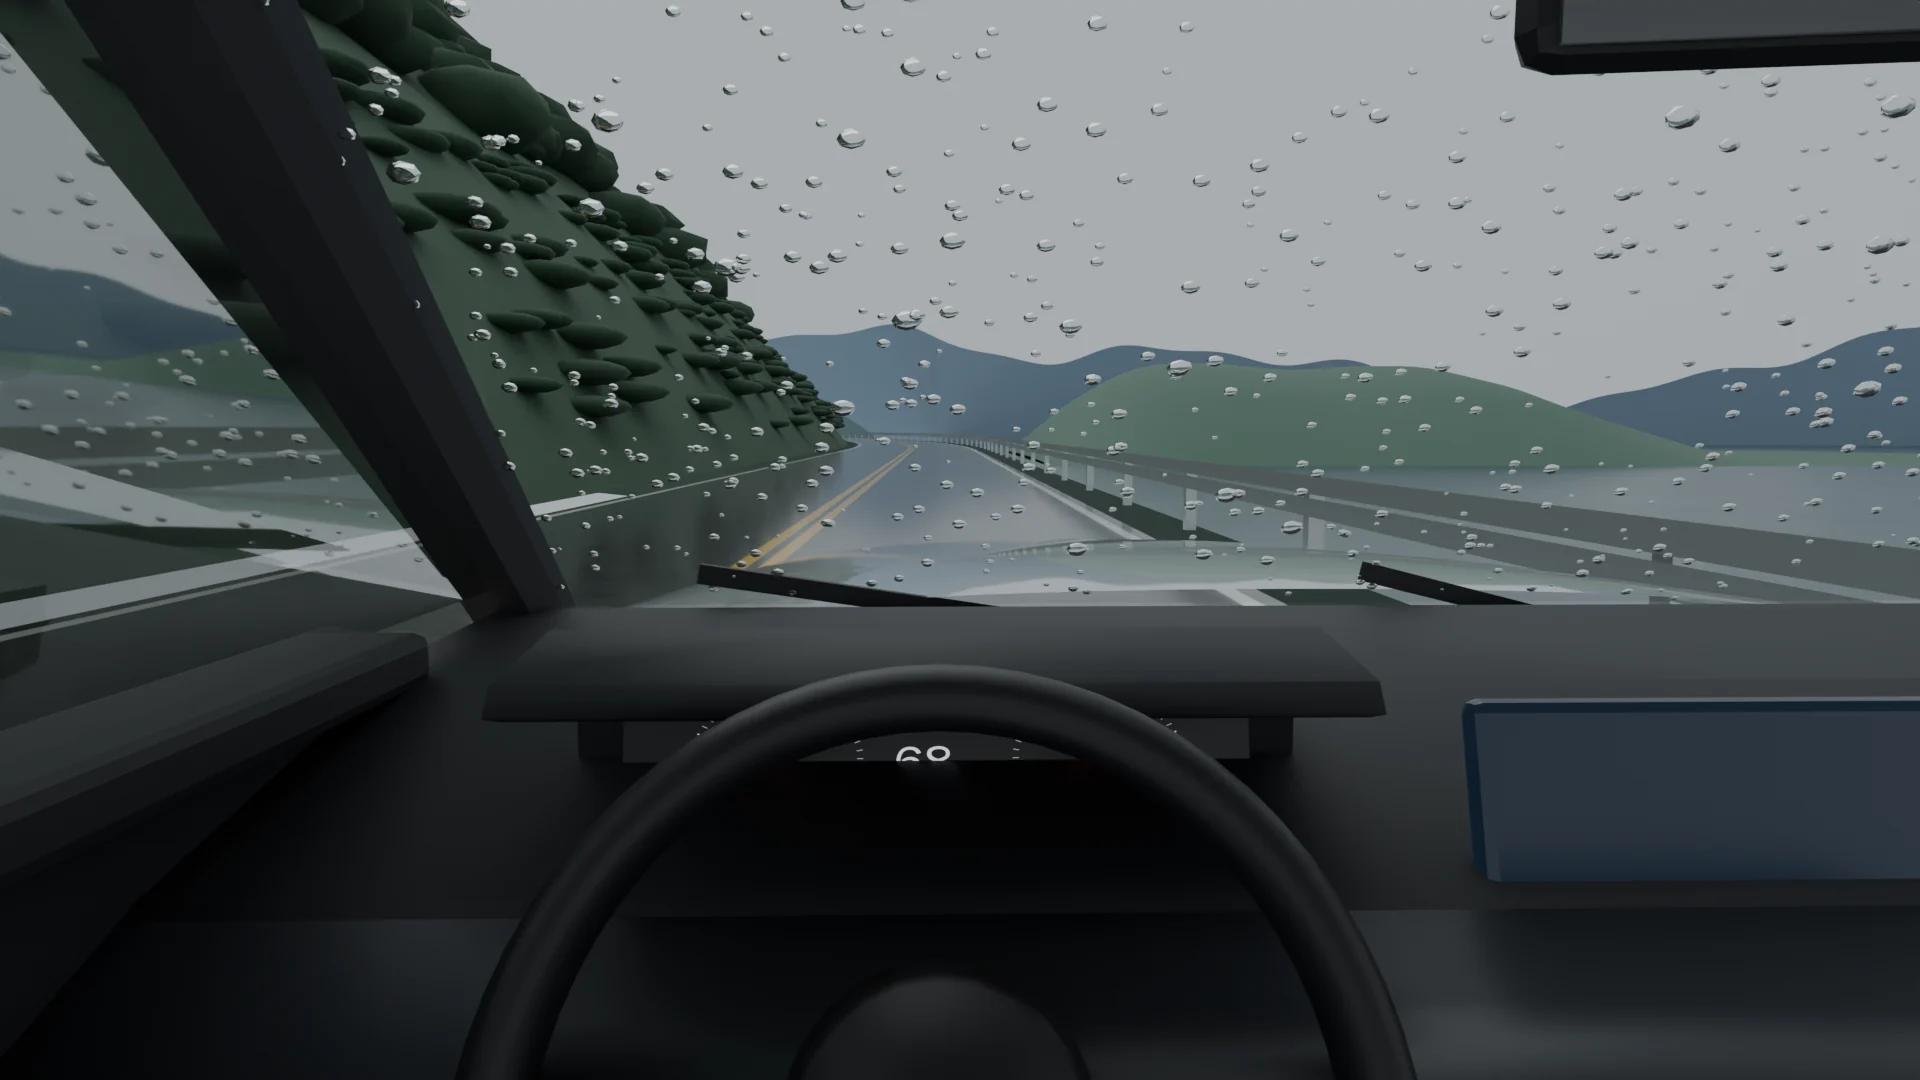
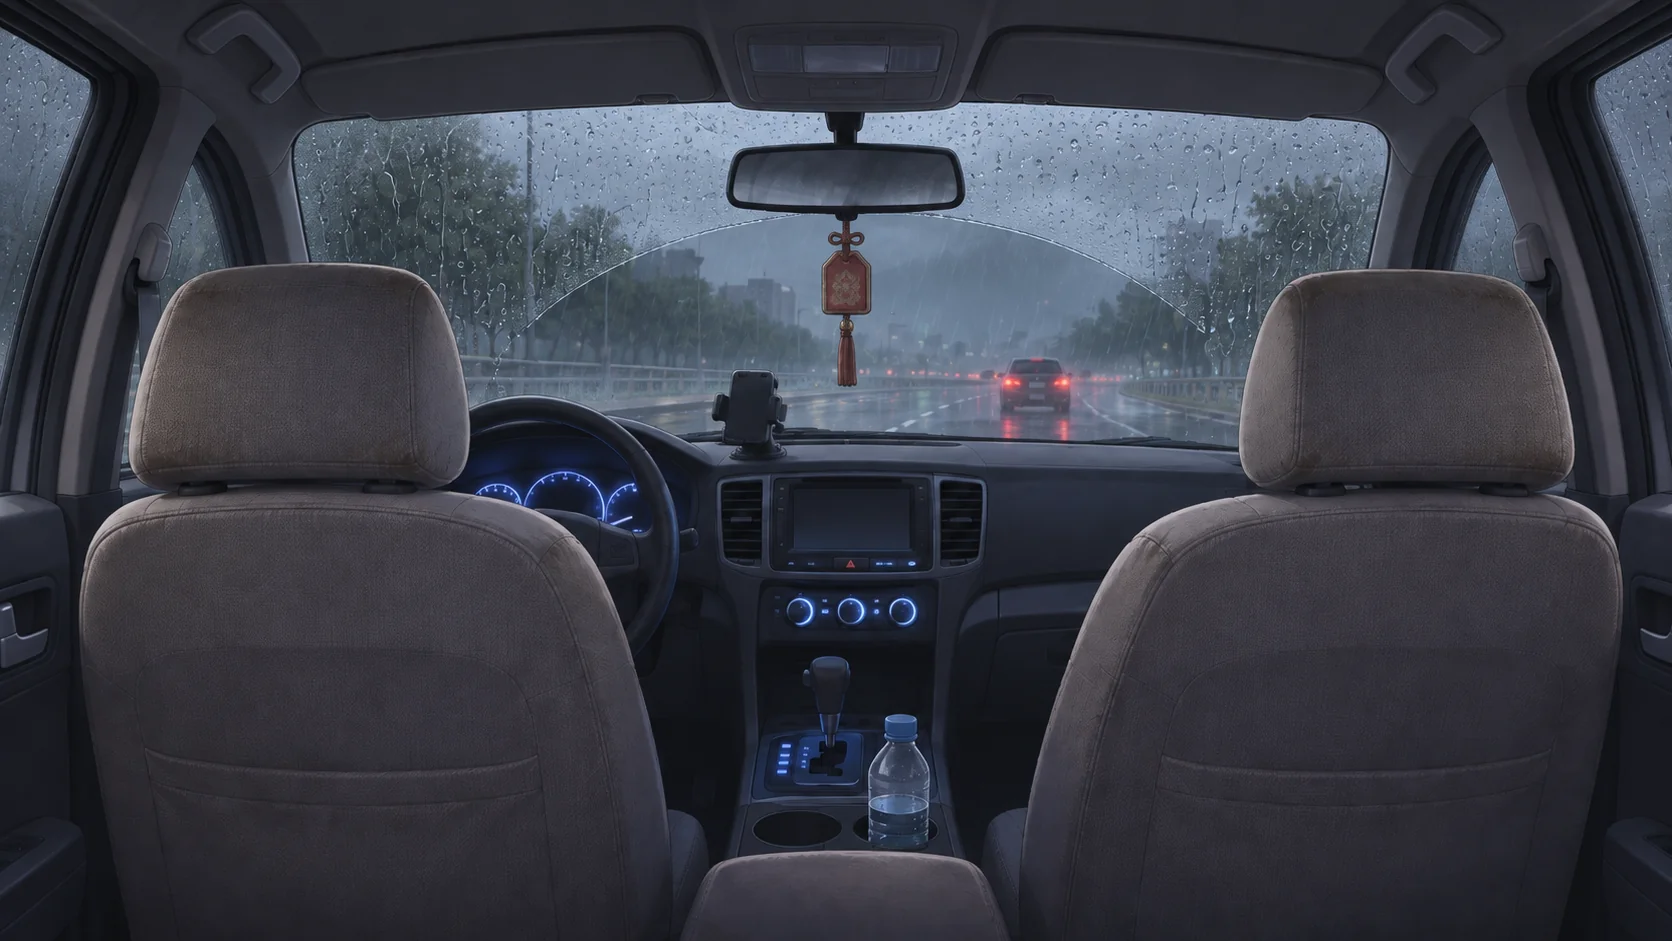
接上第二批第 1～5 張：重考那半年的映月湖白天、芒果冰；家裡的車三張換成使用者生成版
- assets/bg：zuiyue_day、mango_ice（新）；car_night、car_morning、car_rain 換檔不換鍵（D104：原本是 Blender 算圖）
- ev_y0_rp 的 RP_BG 加第 3 句（映月湖）、第 6 句（冰店），不再沒有底圖
- zr_summer_misc_unit 跟著改；LICENSES BG-08 改寫

Claude-Session: https://claude.ai/code/session_01DvRVNNnivf7da7qqWuGmw6

diff --git a/src/outings3d.js b/src/outings3d.js
@@ -39,7 +39,8 @@ const OUT=(function(){
     /* DL-06C 第三批（spots_v3 3b599624；使用者 10-17 核准的 33 張，abad2fa0 照原檔複製）*/ d01_base_afternoon:{label:'華山1914文創園區・下午',image:'assets/bg/d01_base_afternoon.webp'}, d02_base_overcast:{label:'松山文創園區・陰天',image:'assets/bg/d02_base_overcast.webp'}, d02_base_rain:{label:'松山文創園區・雨後',image:'assets/bg/d02_base_rain.webp'}, d03_base_afternoon:{label:'參創生活園區・下午',image:'assets/bg/d03_base_afternoon.webp'}, d05_base_dusk:{label:'光典臺北・黃昏',image:'assets/bg/d05_base_dusk.webp'}, d07_base_afternoon:{label:'國家人權博物館景美紀念園區・下午',image:'assets/bg/d07_base_afternoon.webp'}, d08_base_morning:{label:'臺北市立動物園・早上',image:'assets/bg/d08_base_morning.webp'}, d10_base_dusk:{label:'碧潭・黃昏',image:'assets/bg/d10_base_dusk.webp'}, d11_base_afternoon:{label:'新北投溫泉區・下午',image:'assets/bg/d11_base_afternoon.webp'}, d14_base_sunset:{label:'淡水漁人碼頭・夕陽',image:'assets/bg/d14_base_sunset.webp'}, d17_base_morning:{label:'野柳地質公園・早上',image:'assets/bg/d17_base_morning.webp'}, d19_base_morning:{label:'金瓜石・早上',image:'assets/bg/d19_base_morning.webp'}, d21_base_afternoon:{label:'三峽老街・下午',image:'assets/bg/d21_base_afternoon.webp'}, d26_base_golden:{label:'臺中草悟道與國立臺灣美術館・傍晚',image:'assets/bg/d26_base_golden.webp'}, d27_base_morning:{label:'嘉義檜意森活村・早上',image:'assets/bg/d27_base_morning.webp'}, d28a_base_day:{label:'臺南國立臺灣文學館與安平・白天',image:'assets/bg/d28a_base_day.webp'}, d28b_base_sunset:{label:'臺南國立臺灣文學館與安平・夕陽',image:'assets/bg/d28b_base_sunset.webp'}, d29_base_afternoon:{label:'高雄駁二藝術特區・下午',image:'assets/bg/d29_base_afternoon.webp'}, d30_base_dusk:{label:'花蓮七星潭・黃昏',image:'assets/bg/d30_base_dusk.webp'}, d31_base_morning:{label:'南投日月潭・早上',image:'assets/bg/d31_base_morning.webp'} };   /* 期中考完的晚餐（交接包 v2 C11、C21）：麵店有 3D 區域，長桌這一幕先用 2D 底 */   /* 春假 K8 的三個目的地（BB_96 9-5；交接包 v2 C9）、嘉義老家（AA_12 主線 2；C2）：圖還沒有＝深色底＋地點字幕 */   /* K2 可昕來台大（BB_95 9-3 的最小版本：依序換 2D 背景；之後可以換成遊戲校園的畫面）*/
   /* BB_132 第 100 組十張：第 1～5 張（使用者 11-02 生成、直接交給 LAWWW-B；沒有人物、沒有看得清楚的字）*/
   Object.assign(S.BG,{ coach_night:{label:'夜班客運上',image:'assets/bg/coach_night.webp'}, treasure_hill:{label:'寶藏巖',image:'assets/bg/treasure_hill.webp'}, oia_meeting:{label:'國際事務處・會議室',image:'assets/bg/oia_meeting.webp'}, visa_counter:{label:'簽證櫃台',image:'assets/bg/visa_counter.webp'}, hypermarket:{label:'大賣場',image:'assets/bg/hypermarket.webp'},
-    /* 第 6～10 張（同日）；cvs_table_night 玻璃上的綠橙條紋 LAWWW-B 改成灰藍（D77 不照抄品牌配色）；mucha_cafe_night 是使用者選的重生淺色地板版（D112 擴大到 2D）；cvs_table_day 是使用者選的重生白天版（學姊訪談在上午）*/ mucha_cafe_night:{label:'木柵大學山下・咖啡店（晚上）',image:'assets/bg/mucha_cafe_night.webp'}, teishoku_night:{label:'巷子裡的定食店（晚上）',image:'assets/bg/teishoku_night.webp'}, tn_cafe:{label:'台南・老房子咖啡店',image:'assets/bg/tn_cafe.webp'}, cvs_table_night:{label:'便利商店門口的桌子（傍晚）',image:'assets/bg/cvs_table_night.webp'}, cvs_table_day:{label:'便利商店門口的桌子（上午）',image:'assets/bg/cvs_table_day.webp'}, law_dept_office:{label:'法律系・系辦公室',image:'assets/bg/law_dept_office.webp'} });
+    /* 第 6～10 張（同日）；cvs_table_night 玻璃上的綠橙條紋 LAWWW-B 改成灰藍（D77 不照抄品牌配色）；mucha_cafe_night 是使用者選的重生淺色地板版（D112 擴大到 2D）；cvs_table_day 是使用者選的重生白天版（學姊訪談在上午）*/ mucha_cafe_night:{label:'木柵大學山下・咖啡店（晚上）',image:'assets/bg/mucha_cafe_night.webp'}, teishoku_night:{label:'巷子裡的定食店（晚上）',image:'assets/bg/teishoku_night.webp'}, tn_cafe:{label:'台南・老房子咖啡店',image:'assets/bg/tn_cafe.webp'}, cvs_table_night:{label:'便利商店門口的桌子（傍晚）',image:'assets/bg/cvs_table_night.webp'}, cvs_table_day:{label:'便利商店門口的桌子（上午）',image:'assets/bg/cvs_table_day.webp'},
+    /* 第二批（BB_132 第 101、102 組；使用者 11-02 生成）：car_night／car_morning／car_rain 換檔不換鍵（D104：Blender 算圖換成使用者生成）*/ zuiyue_day:{label:'映月湖（白天）',image:'assets/bg/zuiyue_day.webp'}, mango_ice:{label:'巷子裡的冰店',image:'assets/bg/mango_ice.webp'}, law_dept_office:{label:'法律系・系辦公室',image:'assets/bg/law_dept_office.webp'} });
   S.BG.ntu_court_night={label:'首都帝大・新體育館旁的籃球場（晚上）',image:'assets/bg/ntu_court_night.webp'};   /* 哲 2（AA_177 第 5 節）：ART-BG-COURT 派給 LAWWW2-B，圖來了填 assets/bg/ntu_court_night.webp */
   S.BG.ntu_gym_ceremony={label:'綜合體育館・開學典禮',image:'assets/bg/ntu_gym_ceremony.webp'};   /* ART-GYM-BG1 v3 正式版（LAWWW2-B a3529675；使用者 00:3x「開學典禮可以!!!」）：8/31 開學典禮（STORY.ceremonyY1）；畢業典禮版另做 */
   S.BG.us_farmers_market={label:'美國・週六市集',image:'assets/bg/us_chapel_steps.webp'};   /* 學姊七夕 1-3 美國路線（AA_388 第 3 節第 3 點，SIS-QIXI-L-1023）：美國篇的校園附近街景（F08 那一批）還沒有＝先用校園底圖（小教堂前的台階）；BB 跟使用者要圖，到了改成 assets/bg/us_farmers_market.webp */

diff --git a/tests/zr_summer_misc_unit.js b/tests/zr_summer_misc_unit.js
@@ -125,7 +125,7 @@ const queued=th=>[].concat(...(PHONE.rec(H.G).q||[]).map(q=>(q.items||[]).filter
     { const E=ev('ev_y0_rp'), out={};
       for(let i=0;i<STORY.RP.length;i++){ H.fresh('2025-06-05',10,'dorm',{RP_LAST:i,RP_TXT:STORY.RP[i][2]}); H.bgs=[]; H.said=[]; await EVENTS.runLines(E.dialogue,{id:'t',participants:['kexin']}); out[i]={bg:H.bgs.map(img),L:said()}; }
       check('C. ev_y0_rp：公館的二輪戲院＝gongguan_cinema、淡水看海＝d13_base_sunset（淡水），旁白那一句照舊',hasImg('gongguan_cinema')&&hasImg('d13_base_sunset')&&J(out[0].bg)===J(['gongguan_cinema'])&&J(out[3].bg)===J(['d13_base_sunset'])&&out[0].L[0]===STORY.RP[0][2]&&out[3].L[0]===STORY.RP[3][2],J([out[0],out[3]]));
-      check('C. ev_y0_rp（11-01 LAWWW-B 回 BB）：溫州街＝blur、公館的咖啡店＝cafe（借兩點半 Café）；映月湖（白天）、芒果冰等第 102 組的圖＝不換',J(out[1].bg)===J(['blur'])&&J(out[4].bg)===J(['cafe'])&&hasImg('cafe')&&[2,5].every(i=>!out[i].bg.length)&&[1,2,4,5].every(i=>out[i].L[0]===STORY.RP[i][2]),J([1,2,4,5].map(i=>out[i].bg))); }
+      check('C. ev_y0_rp（11-01 LAWWW-B 回 BB；11-02 第 102 組到了）：溫州街＝blur、公館的咖啡店＝cafe（借兩點半 Café）、映月湖白天＝zuiyue_day、芒果冰＝mango_ice',J(out[1].bg)===J(['blur'])&&J(out[4].bg)===J(['cafe'])&&hasImg('cafe')&&J(out[2].bg)===J(['zuiyue_day'])&&J(out[5].bg)===J(['mango_ice'])&&hasImg('zuiyue_day')&&hasImg('mango_ice')&&[1,2,4,5].every(i=>out[i].L[0]===STORY.RP[i][2]),J([1,2,4,5].map(i=>out[i].bg))); }
     /* 左營站傍晚 */
     const block=(f,id)=>{ const t=fs.readFileSync(path.join(H.ROOT,f),'utf8'), i=t.indexOf("id:'"+id+"'"); if(i<0) return ''; const j=t.indexOf("id:'",i+5); return t.slice(i,j<0?t.length:j); };   /* 這兩個事件包 pg_harness 沒有載入：讀原始檔那一段 */
     { const b=block('src/data/r2y4a_events.js','ev_kexin_trip_winter_y4'), n=(b.match(/\{scene:'高雄・左營站',bg:'kh_station'\}/g)||[]).length;

diff --git a/src/data/events.js b/src/data/events.js
@@ -2765,7 +2765,7 @@ const STORY_EVENTS=[
     const rpLines=[{if:{custom:G=>!!G.flags.RP_TXT},speaker:null,text:'{flag:RP_TXT}'}];   /* 出門前（beforeOuting）選好那一句 */
     /* 那一句的地方有現成的背景就換（BLACK-BG-AUDIT-1018，BB_132 第 100 組「用那次出門目的地的背景」；STORY.RP 的第幾句＝RP_LAST）：
        0 公館的二輪戲院＝gongguan_cinema、3 淡水看海＝d13_base_sunset（淡水）。溫州街（wenzhou 沒有圖）、映月湖（只有晚上的 zuiyue_night，這裡是白天）、公館的咖啡店、芒果冰沒有現成的，照舊深色底 */
-    const RP_BG={0:['公館・二輪戲院','gongguan_cinema'],1:['溫州街','blur'],3:['淡水','d13_base_sunset'],4:['公館・咖啡店','cafe']};   /* 11-01 LAWWW-B 回 BB：溫州街＝模糊的 3D（blur）、公館咖啡店借兩點半 Café 的圖；映月湖白天（2）、芒果冰（5）等第 102 組的圖 */
+    const RP_BG={0:['公館・二輪戲院','gongguan_cinema'],1:['溫州街','blur'],2:['映月湖','zuiyue_day'],3:['淡水','d13_base_sunset'],4:['公館・咖啡店','cafe'],5:['冰店','mango_ice']};   /* 11-01 LAWWW-B 回 BB：溫州街＝模糊的 3D（blur）、公館咖啡店借兩點半 Café 的圖；11-02 映月湖白天（2）、芒果冰（5）用第 102 組的圖（使用者生成）*/
     const rpScene=Object.keys(RP_BG).map(i=>({if:{custom:G=>G.flags.RP_LAST===+i},scene:RP_BG[i][0],bg:RP_BG[i][1]}));
     return [
       study('ev_y0_r1','互相出題的第一天','r1',[ {speaker:null,text:'（她搬來的第一天。你媽端了一盤水果出來，放下就回廚房了。）'},{scene:'祐廷家・你的房間',bg:'home_room_day'},{speaker:'kexin',expression:'teasing',text:'如果憲法是一間餐廳，第七條是什麼菜？'},

diff --git a/LICENSES.md b/LICENSES.md
@@ -248,7 +248,7 @@
 | 2D 背景 山上看星星（`assets/bg/trip_mountain.webp`，BG-11） | 使用者用 AI 生成、BB-B 通過的約會底圖 D09（黃昏，`docs/story_planning/date_system/art/d09_base_dusk.webp`，BB-B 分支）→ 本作 `tools/blender/env_second/bg_trip_mountain.py` 調成夜晚、換夜空（星星、月亮程式畫） | 使用者提供的底圖＋本作調色 | ADV 背景（春假開車旅行「山上看星星」） |
 | 2D 背景 豆漿店（`assets/bg/soymilk_shop.webp`，BG-20） | 本作 Blender `tools/blender/env_second/bg_soymilk.py`（LAWWW2-B aca65794）；道具是 AA-B 做、LAWWW2-B 驗收的 ART-SOY1（`soy_props`）；貼圖 Poly Haven CC0；菜單沒有店名（D77） | 本作；貼圖 CC0 | ADV 背景（芷若 Z5 早場散場後） |
 | 2D 背景 學生家的客廳（`assets/bg/tutor_home.webp`，BG-21） | 本作 Blender `tools/blender/env_second/bg_tutor.py`（LAWWW2-B 1c025d9a）；道具是 BB-B 的 ART-TUTOR1；沒有字、品牌（D77） | 本作 | ADV 背景（明軒介紹的家教 `ev_tutor_lesson`） |
-| 2D 背景 車上（`assets/bg/car_morning.webp`、`car_night.webp`、`car_rain.webp`，BG-08） | 本作 Blender `tools/blender/env_second/bg_car.py`（LAWWW2-B，駕駛座視角；儀表板沒有品牌） | 本作 | ADV 背景（春假開車旅行，出遊 `car`） |
+| 2D 背景 車上（`assets/bg/car_morning.webp`、`car_night.webp`、`car_rain.webp`，BG-08） | 2026-11-02 起換成使用者以 AI 生成的版本（BB_132 第 101 組，提示詞 BB-B 寫；D104）；之前是本作 Blender `tools/blender/env_second/bg_car.py`（LAWWW2-B，駕駛座視角） | 本作使用 | ADV 背景（春假開車旅行，出遊 `car`；10/17、宿營、送機） |
 | 新體育館 B1 健身器材 `assets/models/env/second_ai/bb_support/gym_b1_props.glb`（跑步機、飛輪、划船機、深蹲架、史密斯機、啞鈴架、臥推椅、運動墊） | 本作 Blender 腳本 `tools/blender/env_second/bb_support/gym_b1_props.py`（BB-B 製作、LAWWW2-B 驗收）；頂點色，沒有貼圖、沒有品牌 | 本作 | 體育館第三階段（B1）用；還沒接 |
 | 新體育館 B1（大廳、健身中心、游泳池）`assets/models/env/second_ai/gym_b1.glb` | 本作 Blender 腳本 `tools/blender/env_second/gym_b1.py`；健身器材是 BB-B 的 `bb_support/gym_b1_props.glb`（本作）；橡膠地墊、池底 `textures/gen/b1_rubber.jpg`、`pool_floor.jpg` 由 `gym_tex.py` 程式畫；貼圖 Poly Haven CC0（`granite_tile`、`rounded_square_tiled_wall`、`long_white_tiles`、`white_plaster_02`、`walnut_veneer`） | 本作；貼圖 CC0 | `gym_b1` 室內區域（LAWWW-B 接；還沒接） |
 | 溫州街小公園遊戲場 `assets/models/env/second_ai/bb_support/park_play_props.glb`（ART-PARK1：溜滑梯、搖搖馬、搖搖小鴨、沙坑） | 本作 Blender 腳本 `tools/blender/env_second/bb_support/park_play_props.py`（BB-B 做、LAWWW2-B 驗收）；貼圖 Poly Haven CC0（`granular_concrete`、`dark_planks`，repo 裡已有）烘進 `bb_support/textures/gen/park_play_props_atlas.png`；沒有字、品牌 | 本作；貼圖 CC0 | 擺進 `wz_park.glb` |
@@ -267,7 +267,7 @@
 | 美國校園 `assets/models/env/second_ai/us_campus.glb`（SCN-US-02 v3＋紅磚＋四季）、法學院圖書館 `us_lawlib.glb`、社區四季 `us_community.glb`（LAWWW2-C `90c2896e`／`beb5fa54`／`407ec3f5`／`4cee25c8`） | 本作 Blender 腳本自製（tools/blender/env_second/），材質照既有 Poly Haven CC0 貼圖；本作使用 |
 | 高雄・美麗島站穹頂 `assets/bg/kh_dome.webp`、蓮池潭邊長椅 `assets/bg/kh_lotus_bench.webp`（BB-C `b043f9bd`，AA_303 第 15 場；純場景） | 使用者以 AI 生成（D104）；本作使用 |
 | 宿營活動背景 10 張 `assets/bg/camp_bbq.webp`、`camp_field`、`camp_bonfire`、`camp_party_hall`、`camp_quiz`、`camp_dining`、`camp_trail`、`camp_classroom`、`camp_yard_day`、`camp_yard_night`（BB-C `548989d6`，BG-CAMP-1018） | 使用者以 AI 生成（D104）；本作使用 |
-| 2D 對話背景 coach_night、treasure_hill、oia_meeting、visa_counter、hypermarket、mucha_cafe_night（重生的淺色地板版）、teishoku_night、tn_cafe、cvs_table_night、cvs_table_day（重生的白天版）、law_dept_office（`assets/bg/*.webp`；BB_132 第 100 組十張＋重生兩張；cvs_table_night 玻璃上的綠橙條紋由 LAWWW-B 改成灰藍（D77），使用者 2026-11-02 直接交給 LAWWW-B，原圖 1672×941 PNG 轉 WebP） | 使用者以 AI 生成（提示詞 BB-B 寫、LAWWW-B 整理，D97）；本作使用 | 本作 | ADV 背景（經濟系夜班客運 `ev_y0_kh_bus`／`_h`、語彤大三情人節 `ev_yt_vday_y3`、日本交換行前 `ev_jpp_0226`／`0301`／`0314`／`0317`、可昕大四聖誕、七夕與 118 巷定食店、沛珊的紅筆、學姊的訪談 `ev_sis_interview`） |
+| 2D 對話背景 coach_night、treasure_hill、oia_meeting、visa_counter、hypermarket、mucha_cafe_night（重生的淺色地板版）、teishoku_night、tn_cafe、cvs_table_night、cvs_table_day（重生的白天版）、law_dept_office、zuiyue_day、mango_ice（`assets/bg/*.webp`；BB_132 第 100 組十張＋重生兩張＋第 102 組第 2、3 張；cvs_table_night 玻璃上的綠橙條紋由 LAWWW-B 改成灰藍（D77），使用者 2026-11-02 直接交給 LAWWW-B，原圖 1672×941 PNG 轉 WebP） | 使用者以 AI 生成（提示詞 BB-B 寫、LAWWW-B 整理，D97）；本作使用 | 本作 | ADV 背景（經濟系夜班客運 `ev_y0_kh_bus`／`_h`、語彤大三情人節 `ev_yt_vday_y3`、日本交換行前 `ev_jpp_0226`／`0301`／`0314`／`0317`、可昕大四聖誕、七夕與 118 巷定食店、沛珊的紅筆、學姊的訪談 `ev_sis_interview`、重考那半年和可昕出門 `ev_y0_rp` 的映月湖與芒果冰） |
 | 桃園機場第二航廈（遊戲版）入境大廳 `assets/models/env/second_ai/airport_arr.glb`、出境大廳＋下車處 `airport_dep.glb`（LAWWW2-C 2026-10-18） | 本作 Blender 腳本 `tools/blender/env_second/airport_t2.py`（配置 `airport_t2.layout.json`；航空公司、店名虛構，D77）；貼圖 Poly Haven `asphalt_02`、`concrete_wall_006`、`granite_tile`、`granite_tile_03`、`walnut_veneer`、`white_plaster_02`（**CC0**） | 本作（模型）＋CC0（貼圖） | 機場區域（出國、交換） |
 | 從校園看出去的公館 `assets/models/env/second_ai/campus_gongguan_bd.glb`、公館區域的遠景 `gongguan_far.glb`（LAWWW2-C 2026-10-20 X86） | 本作 Blender 腳本 `tools/blender/env_second/gg_backdrop.py`（`--zone gongguan` 出遠景）；招牌、燈箱是 `tools/blender/env_second/gg_textures.py` 程式畫的虛構店名（D77）；公寓零件、材質共用 `lane118_shops.py`（Poly Haven `white_plaster_02`，**CC0**） | 本作（模型）＋CC0（貼圖） | 校園背景（校門外）、公館區域遠景 |
 | 大二房間拆箱的物件 `assets/models/env/second_ai/dorm_y2_items.glb`（軟木板、課本、相簿、螢光筆、泡麵、紙箱） | 本作 Blender 腳本 `tools/blender/env_second/dorm_y2_items.py`（LAWWW2-B 8a1af723 起、LAWWW2-C 899f9bcd）；印刷品貼圖同一支腳本用 PIL 畫（`textures/gen/dorm_y2_print.png`，沒有文字、商標，D77）；貼圖 Poly Haven `granular_concrete`、`walnut_veneer`（**CC0**） | 本作（模型）＋CC0（貼圖） | 宿舍大二房間（主線 3） |
